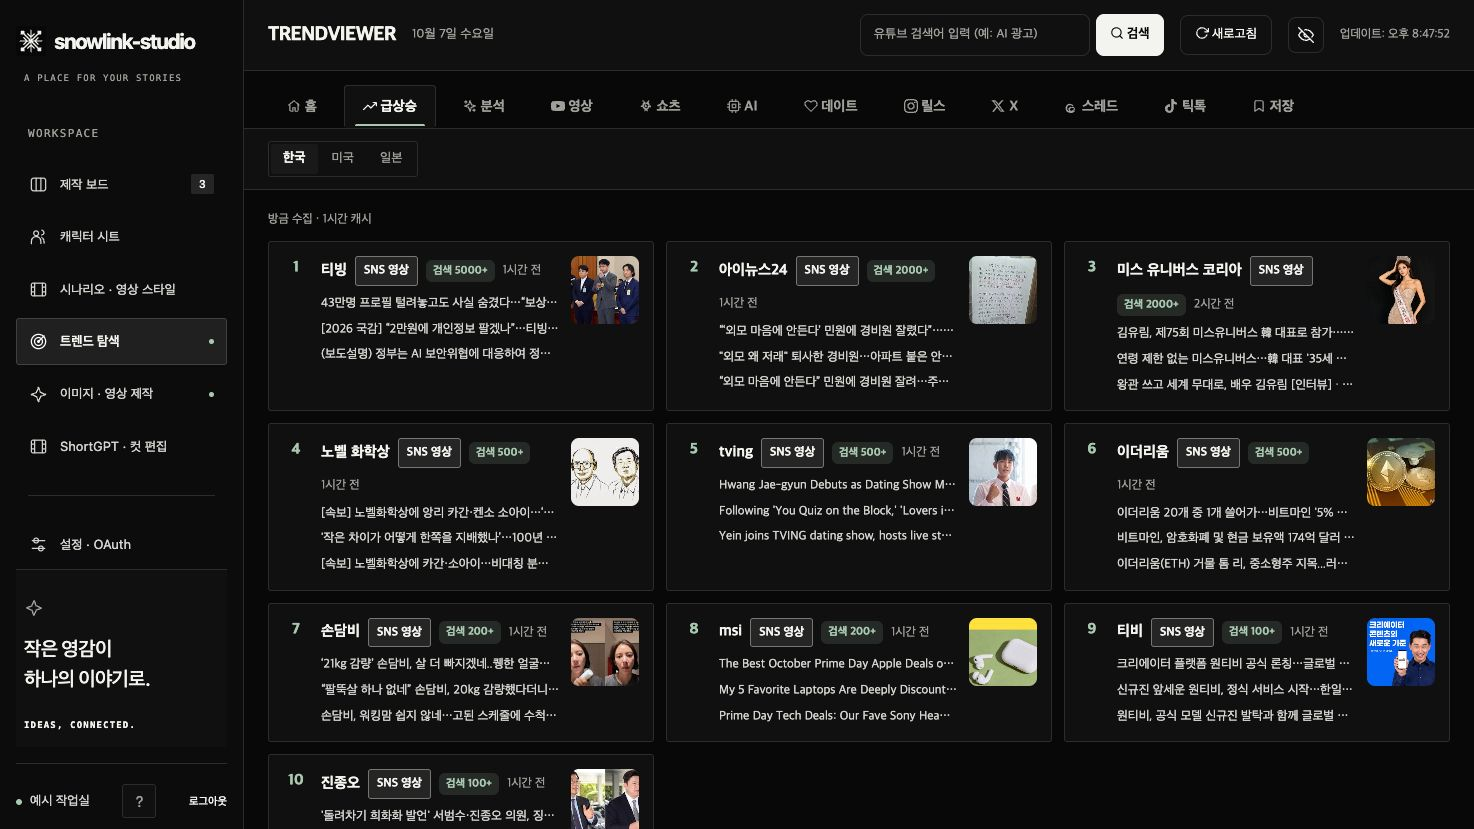
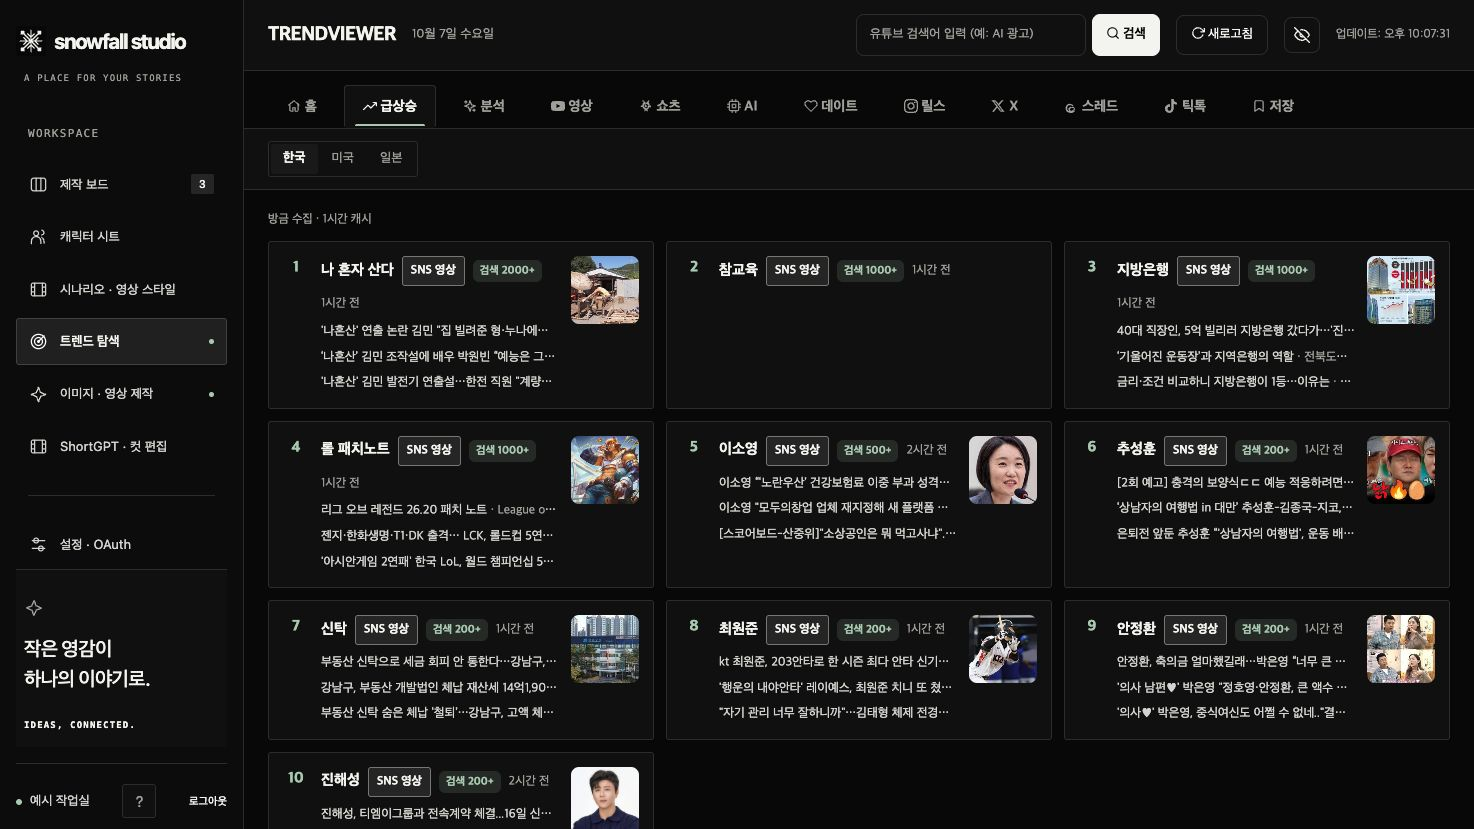
feat: refresh snowfall branding and enable new API domain

diff --git a/apps/company/components/ProductShowcase.jsx b/apps/company/components/ProductShowcase.jsx
@@ -15,7 +15,7 @@ const screens = [
 export function ProductShowcase({ productName }) {
   const [selected, setSelected] = useState(0);
   const screen = screens[selected];
-  const source = `/screenshots/${screen.id}.jpg?v=20261007-monochrome`;
+  const source = `/screenshots/${screen.id}.jpg?v=20261007-snowfall-studio`;
 
   return <section className="company-showcase" aria-labelledby="showcase-title">
     <div className="company-showcase-heading">

diff --git a/apps/company/lib/config.js b/apps/company/lib/config.js
@@ -9,7 +9,7 @@ export function companyConfig() {
     registrationDate: '2026년 6월 30일',
     representative: '이현대',
     address: '관악구 조원로 8길 10',
-    email: 'ceo@snowfall.it.com',
+    email: 'admin@snowfall.it.com',
     service: {
       url: 'https://studio.snowlink.team',
       name: 'snowfall studio',

diff --git a/docs/domain-transition.md b/docs/domain-transition.md
@@ -1,0 +1,38 @@
+# snowfall studio 도메인 전환
+
+사용자가 확정한 주소와 공개 이메일입니다.
+
+| 용도 | 새 주소 |
+| --- | --- |
+| 회사 소개 | `https://snowfall.it.com` |
+| Studio | `https://studio.snowfall.it.com` |
+| API · MCP | `https://api.snowfall.it.com` |
+| 공개 이메일 | `admin@snowfall.it.com` |
+
+## 반영 상태 · 2026-10-07
+
+- 회사 소개 루트 도메인은 Vercel에 연결됐으며 `www.snowfall.it.com`으로 이동합니다.
+- API는 Mac mini IP로 연결됐고 Nginx HTTPS 및 Let's Encrypt 인증서 발급을 완료했습니다. 기존 API 주소도 유지합니다.
+- `config.json`에 새 API 및 Studio origin을 추가했습니다.
+- Studio 서브도메인은 DNS 레코드와 Vercel 프로젝트 연결 확인을 기다립니다. 확인 전까지 회사 페이지의 서비스 버튼과 백엔드의 기본 프론트 주소는 기존 Studio 주소를 사용합니다.
+
+## Studio 전환 시 함께 변경할 값
+
+Vercel의 Studio 프로젝트(`apps/studio`)에 `studio.snowfall.it.com`을 추가하고 Vercel에서 안내하는 DNS 레코드를 등록합니다. 환경변수는 다음과 같습니다.
+
+```dotenv
+STUDIO_API_ORIGIN=https://api.snowfall.it.com
+NEXT_PUBLIC_COMPANY_SITE_URL=https://snowfall.it.com
+```
+
+주소가 정상 응답하면 백엔드 `config.json`의 `publicOrigin`을 `https://api.snowfall.it.com`, `frontendOrigin`을 `https://studio.snowfall.it.com`으로 변경하고 기존 주소는 호환용 origin으로 유지합니다. 회사 페이지 `apps/company/lib/config.js`의 `service.url`도 새 Studio 주소로 바꾸고 재배포합니다.
+
+Google OAuth 클라이언트의 승인된 리디렉션 URI에 `https://studio.snowfall.it.com/api/google/oauth/callback`을 등록합니다. 콜백은 로그인 쿠키가 있는 프론트를 거쳐 API로 전달됩니다. MCP 연결 주소는 `https://api.snowfall.it.com/mcp`이며 새 issuer 주소를 사용하는 연결은 다시 로그인합니다.
+
+## API Nginx
+
+버전 관리용 설정은 `deploy/nginx/api.snowfall.it.com.conf`입니다. 현재 적용본은 `/Users/snowfall/orca/cbt_bank/infra/nginx.conf`의 `BEGIN SNOWFALL API` 블록이며 `cbt-nginx` 컨테이너가 사용합니다. 다른 서비스와 기존 API 설정은 유지합니다.
+
+인증서 파일은 기존 Certbot 저장소의 `live/api.snowfall.it.com/`에 저장됩니다. 인증서·개인 키는 Git에 넣지 않습니다. 기존 Certbot webroot 갱신 대상에 포함되며 갱신 뒤 Nginx를 reload해야 합니다.
+
+Mac mini에서는 백엔드만 실행하고 프론트는 Vercel을 사용합니다.

diff --git a/apps/company/README.md b/apps/company/README.md
@@ -31,7 +31,7 @@ npm run dev
 
 고정 최소 폭 없이 모바일에 맞춰 줄어들며, 움직임 정지/재개 버튼을 제공합니다. 화면 밖이나 숨겨진 탭에서는 애니메이션을 중지합니다. 동작 줄이기 설정, JavaScript/WebGL 미지원, WebGL 컨텍스트 손실 시에는 정적인 브랜드 이름을 표시합니다. 페이지를 떠날 때 WebGL 리소스와 이벤트를 해제합니다. 색상과 레이아웃은 회사 앱의 `styles/company.css`에만 적용됩니다.
 
-하단 푸터에는 회사·제품 안내 링크와 사업자 정보를 모았습니다. 개업일과 사업자등록일은 모두 `2026년 6월 30일`, 문의 이메일은 `ceo@snowfall.it.com`이며 저작권에도 설립 연도 `2026`을 표시합니다.
+하단 푸터에는 회사·제품 안내 링크와 사업자 정보를 모았습니다. 개업일과 사업자등록일은 모두 `2026년 6월 30일`, 문의 이메일은 `admin@snowfall.it.com`이며 저작권에도 설립 연도 `2026`을 표시합니다.
 
 ## 제품 화면
 
@@ -39,7 +39,7 @@ npm run dev
 
 `components/ProductDetails.jsx`는 제작 흐름 4단계와 기획·캐릭터·시나리오·이미지/영상·컷 편집·MCP의 상세 설명을 표시합니다. 문구는 `lib/config.js`의 `workflow`, `productDetails`에서 관리합니다. 콘티 MP4는 무음 미리보기로 안내하며, 구현되지 않은 음성·음악·최종 영상 자동 합성을 제공한다고 설명하지 않습니다.
 
-캡처는 2026년 10월 7일 흑백 UI가 반영된 `https://studio.snowlink.team`에서 다시 촬영했습니다. 제작 보드, 캐릭터 시트, 시나리오, 트렌드 탐색, 이미지·영상 제작, 컷 편집의 6개 화면이며 설정·OAuth 소개 탭과 캡처는 포함하지 않습니다.
+캡처는 2026년 10월 7일 `snowfall studio` 제품명과 흑백 UI가 반영된 `https://studio.snowlink.team`에서 다시 촬영했습니다. 제작 보드, 캐릭터 시트, 시나리오, 트렌드 탐색, 이미지·영상 제작, 컷 편집의 6개 화면이며 설정·OAuth 소개 탭과 캡처는 포함하지 않습니다.
 
 소개용 계정의 예시 캐릭터·기획·컷·플롯을 사용하고, 트렌드는 촬영 당시 공개 수집 결과를 표시합니다. 실제 고객 콘텐츠와 개인 OAuth 정보는 포함하지 않습니다. 이미지는 보정 없이 브라우저 화면을 저장한 JPEG이며 크기는 1474 × 829입니다. 화면 갱신 시 같은 파일명으로 교체하고 `ProductShowcase.jsx`의 이미지 버전도 변경해 이전 캡처 캐시를 구분하세요.
 
